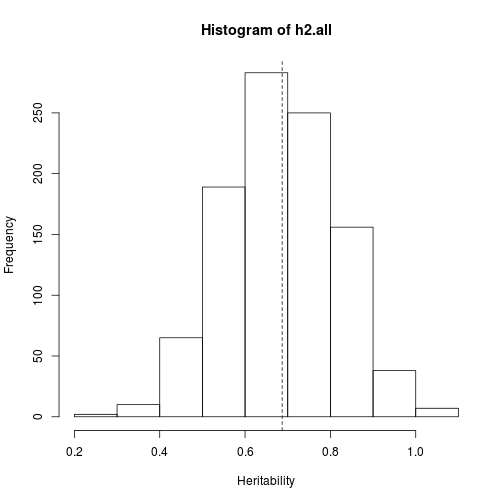
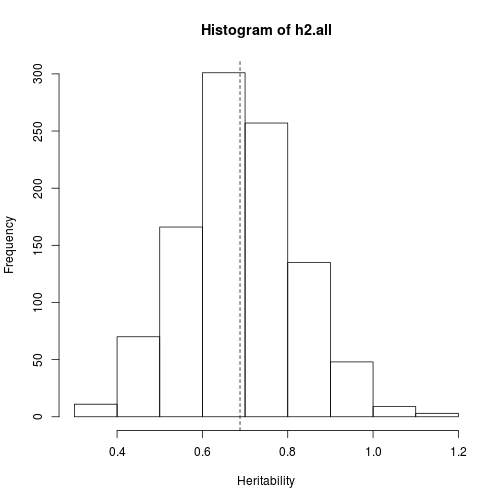
minor changes

diff --git a/Exercise_1.1/Exercise_1.1.md b/Exercise_1.1/Exercise_1.1.md
@@ -43,10 +43,13 @@ attach(thamnophis)
 ## The following objects are masked from thamnophis (position 6):
 ## 
 ##     body, family, ilab, local, mid, post, slab, tail
-## The following objects are masked from thamnophis (position 8):
+## The following objects are masked from thamnophis (position 7):
 ## 
 ##     body, family, ilab, local, mid, post, slab, tail
 ## The following objects are masked from thamnophis (position 9):
+## 
+##     body, family, ilab, local, mid, post, slab, tail
+## The following objects are masked from thamnophis (position 10):
 ## 
 ##     body, family, ilab, local, mid, post, slab, tail
 ```
@@ -288,7 +291,7 @@ mean(h2.all)
 ```
 
 ```
-## [1] 0.6869
+## [1] 0.6882
 ```
 
 ```r
@@ -303,7 +306,7 @@ var(h2.all)  #Our estimate of the sampling variance of the mean
 
 ```
 ##         moms
-## moms 0.01713
+## moms 0.01802
 ```
 
 ```r
@@ -311,7 +314,7 @@ sd(h2.all)  #Our estimate of the standard error of the mean
 ```
 
 ```
-## [1] 0.1309
+## [1] 0.1342
 ```
 
 
